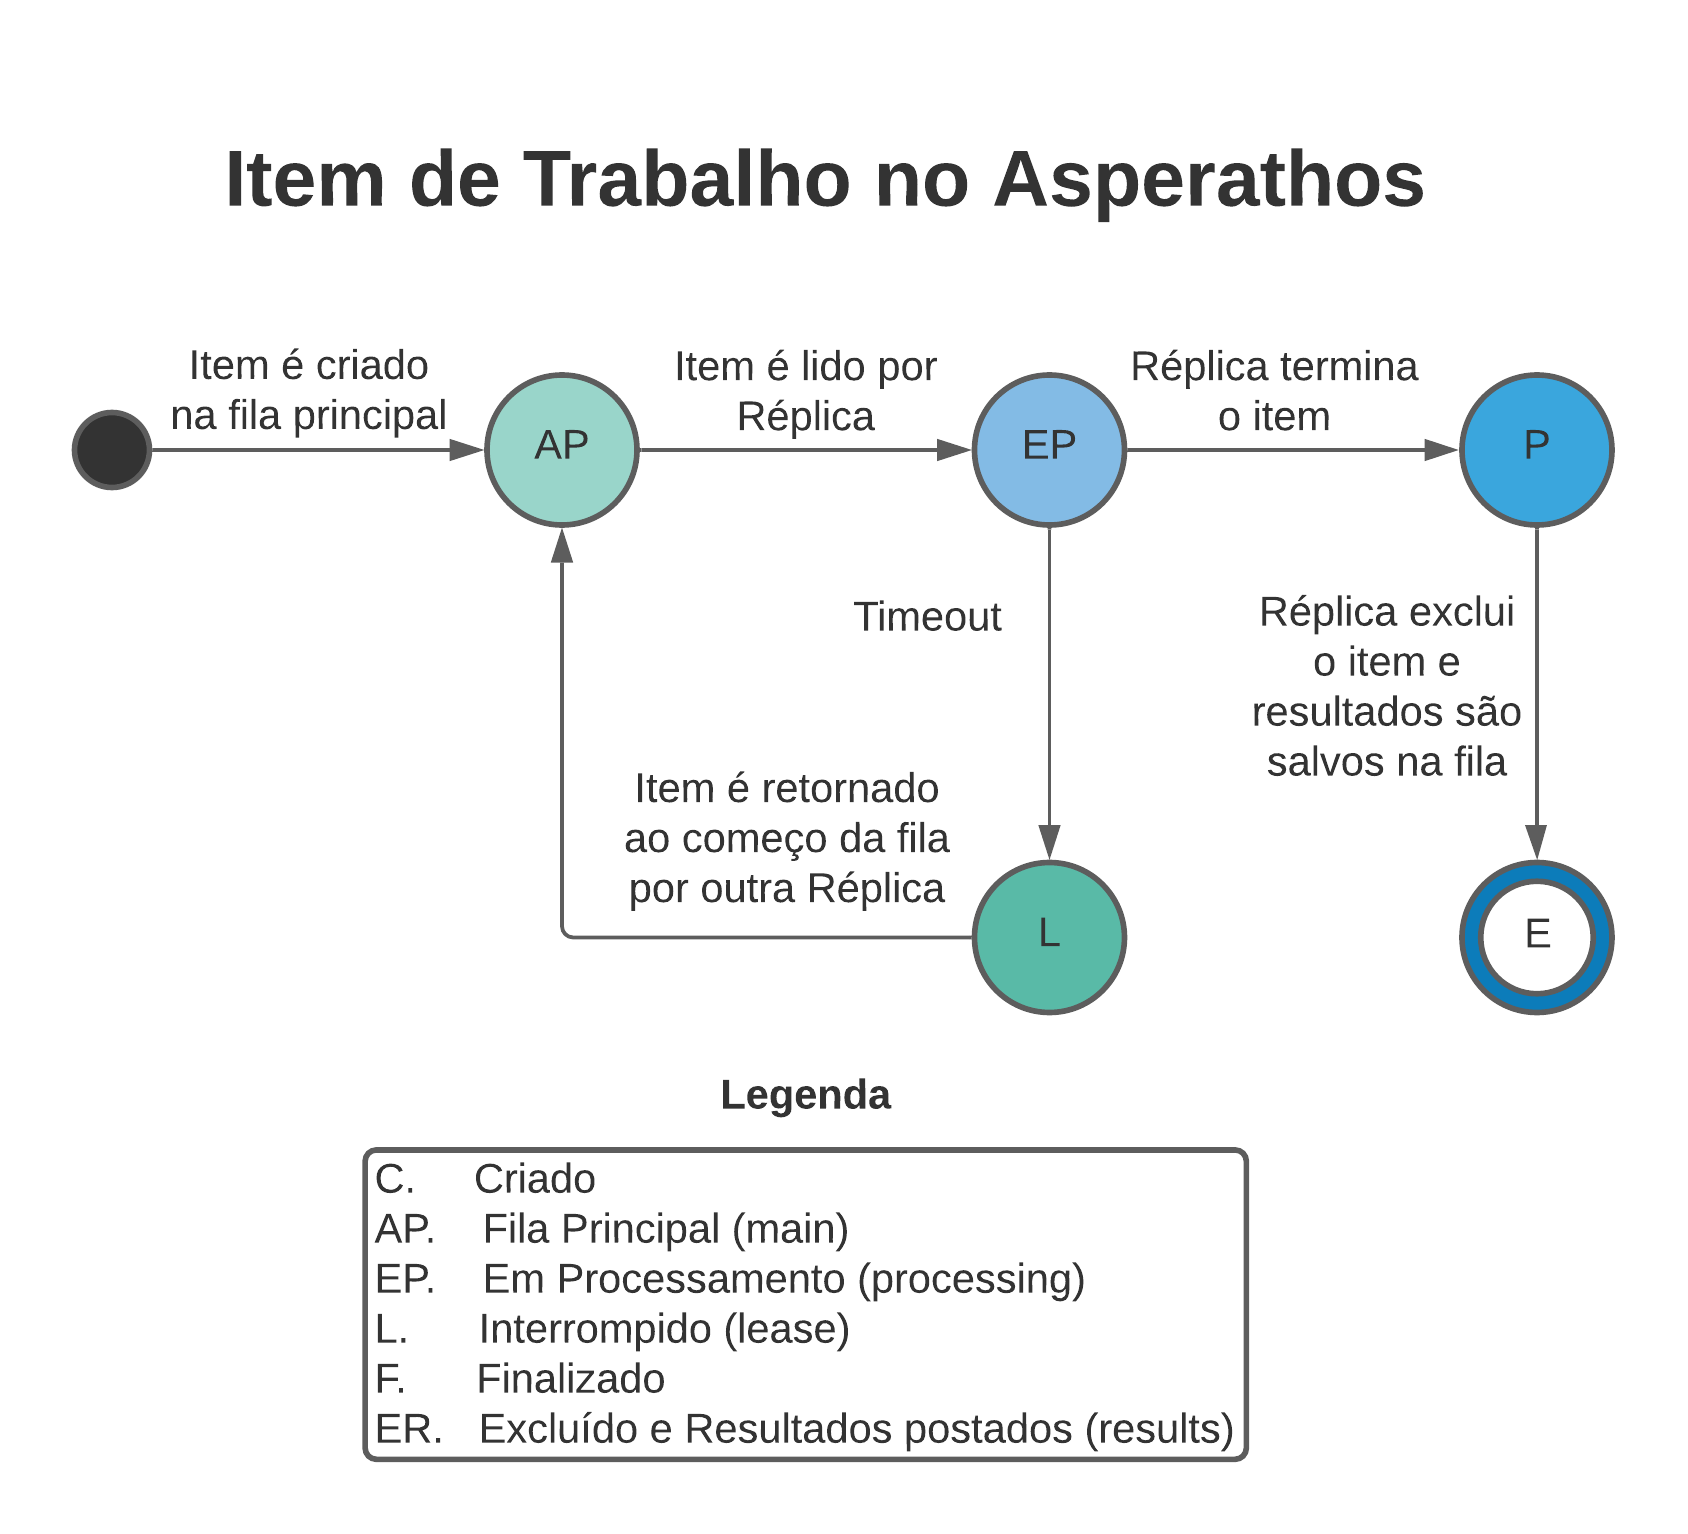
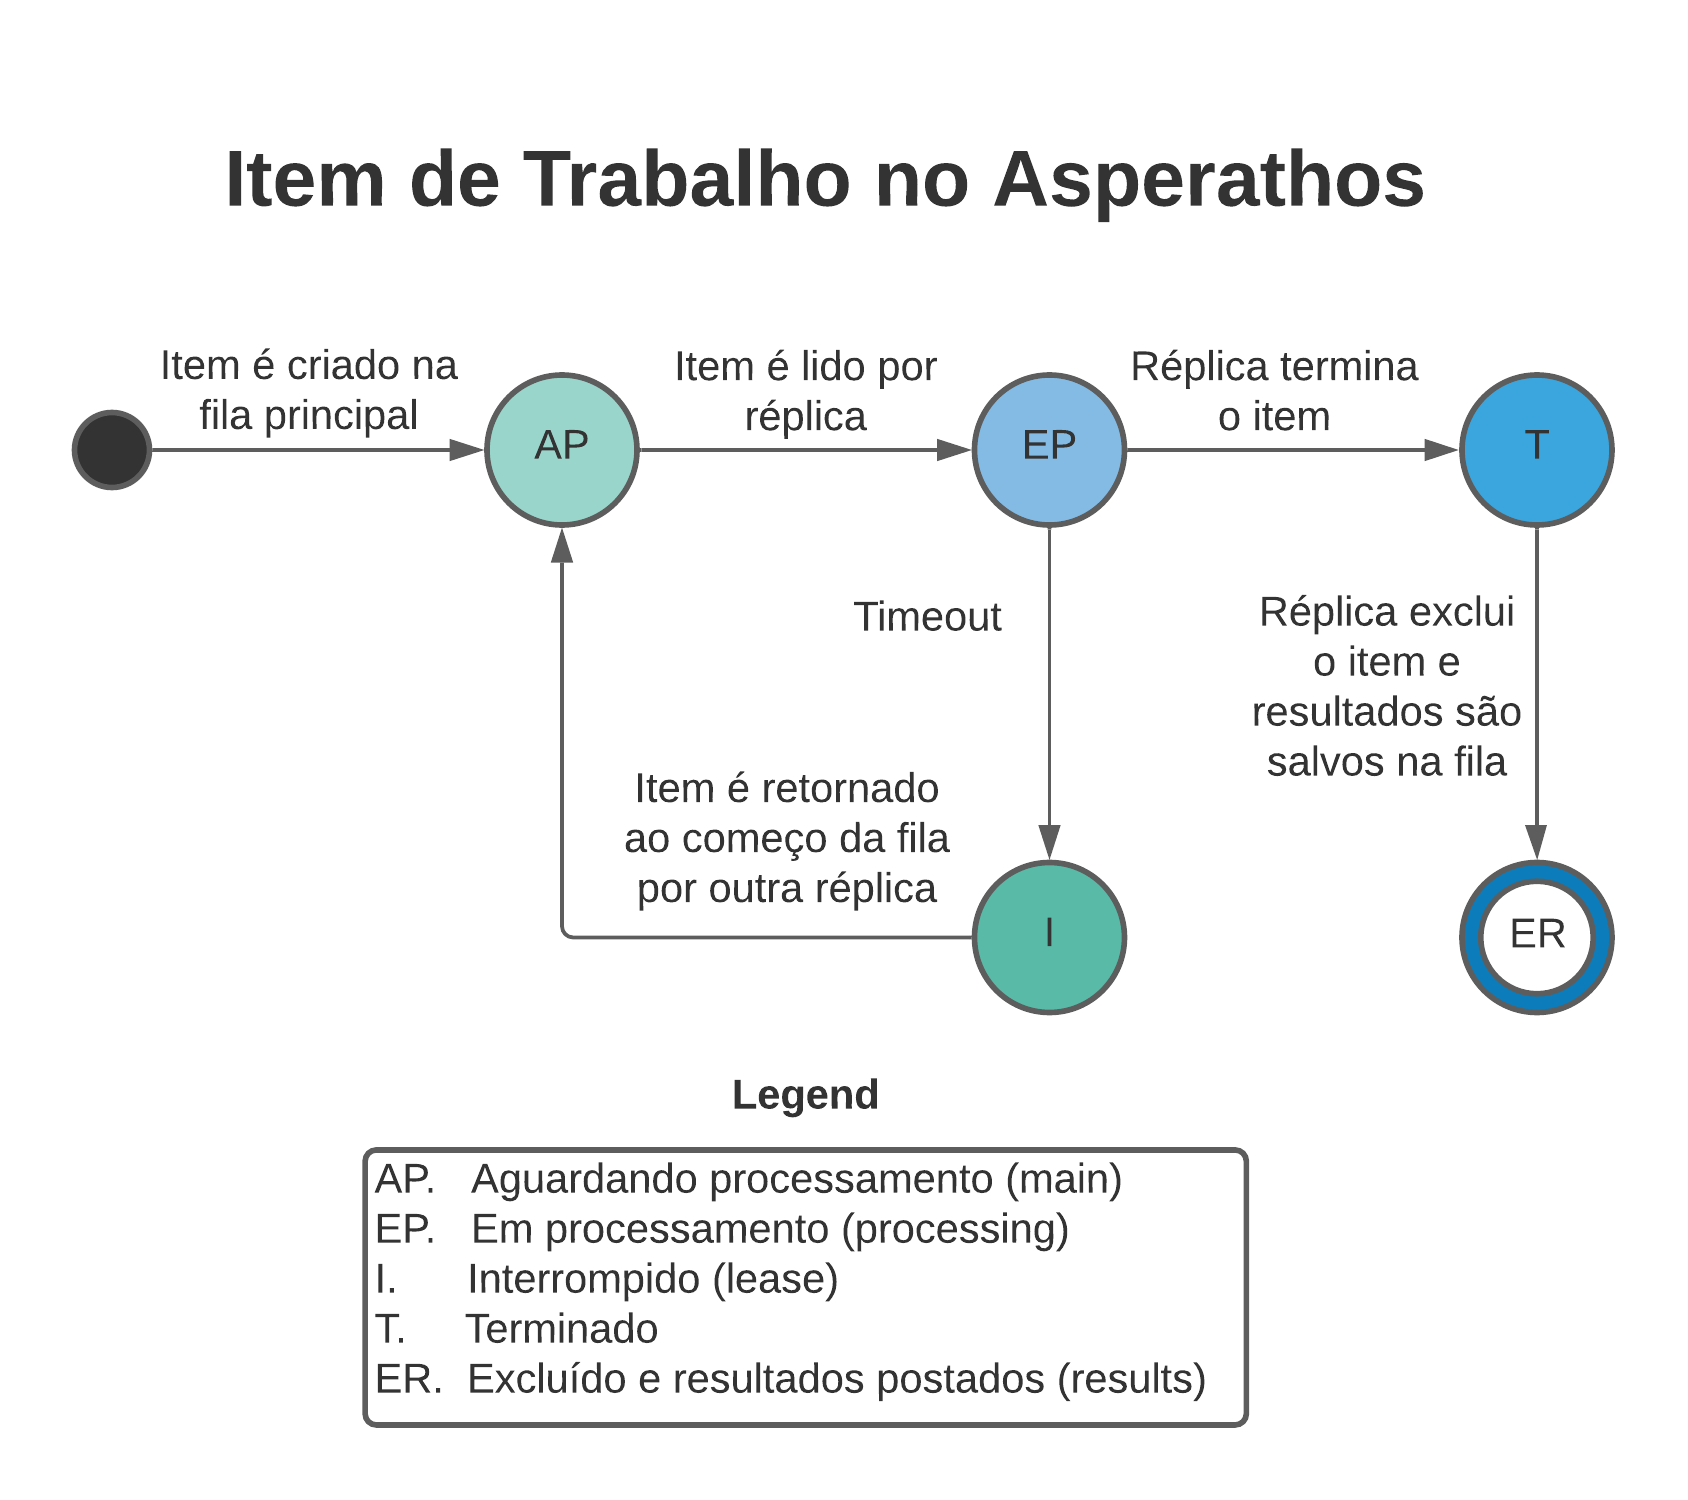
Adds WIP component section

diff --git a/content/posts/asperathos.md b/content/posts/asperathos.md
@@ -1,6 +1,6 @@
 +++
 title = "Documento Arquitetural do Asperathos"
-date = 2021-07-13
+date = 2021-08-13
 tags = []
 categories = []
 +++
@@ -94,6 +94,44 @@ Os endpoints do visualizer são estes abaixo:
 * `/visualizing/:id`, **GET** que retorna a URL do Dashboard.
 
 
+### Componentes
+
+Todos os containers do Asperathos seguem uma arquitetura de plugin. A maior implicação disso, é que não há detalhes muito minunciosos de implementação para cada um, visto que são feitos para comportar diversas possibilidades de plugin. Eles, entretanto, devem seguir responsabilidades bem definidas, como falamos na seção anterior, mas que separaremos aqui componente a componente de cada container.
+
+Cada container tem dois componentes em comum: a **API REST** (como discutimos) e o **gerente de plugins**. A API REST já foi explicada e não há mais detalhes do que isso, mas o gerente de plugins é o responsável por instalar as opcões de plugin e decidir qual usar de acordo com a configuração do Job. Abaixo, estão os componentes diferenciais de cada um.
+
+#### Manager
+
+O Manager coordena os outros containers e também o Job. Ele consegue fazer isso dividindo suas responsabilidades entre três componentes: o **executor de Job**, o **gerente** e o **componente de persistência**.
+
+O **executor de Job** é o responsável por se comunicar com a API da infraestrutura (e.g. Kubernetes) para poder criar e configurar as aplicações auxiliares e a aplicação do cliente no cluster, bem como inicializar a carga de trabalho na Fila de Mensagens para que o Job possa começar.
+
+#### Monitor
+
+Como vimos, o Monitor tem responsabilidade de coletar as métricas e publicá-las no BD. Isso é dividido de maneira simples entre três componentes: o **coletor**, o **processador** e o **publicador**. Cada um deles é um plugin que pode ser substituído.
+
+O **coletor** é responsável pela coleta. Não só pegar as métricas, como também decidir de onde elas vêm. Por padrão utilizamos apenas a Fila de Mensagens, mas outras fontes podem ser utilizadas. Por exemplo: uso de CPU/RAM dos nós do cluster, coletados através da API do Kubernetes.
+
+O **processador** utiliza as métricas para produzir novas ou refiná-las. Enquanto o coletor lê a quantidade de itens produzida, o processador é o responsável por utilizar isso e produzir a métrica de fluxo de itens por segundo. Ele pode também deduzir as distâncias de tempo entre cada item.
+
+O **publicador** utiliza as métricas refinadas do processador para publicá-las no Banco de Dados de Série Temporal. Essa função é simples, e só precisa ser reimplementada quando o Banco de Dados é diferente. Por padrão, é o InfluxDB.
+
+![fig1](componente_monitor_asperathos.png)
+
+#### Controller
+
+O Controller é responsável por decidir quando, como e com qual intensidade atuar no escalonamento das réplicas, baseado em métrias lidas no BD, e também aplicar a decisão. Ele divide essas tarefas em três componentes: o **controlador**, o **atuador** e o **coletor**.
+
+O **controlador** é o componente de inteligência, e é responsável por decidir baseado nas métricas. Esse é o plugin de maior impacto do container e talvez da aplicação, pois afeta diretamente o progresso do job.
+
+O **atuador** é responsável por se conectar com a interface da estrutura (i.e. API do Kubernetes) e aplicar as decisões do controlador. Essa função é simples, e só precisa ser reimplementada quando a Infraestrutura é diferente.
+
+O **coletor** é quem lê as métricas do Banco de Dados de Série Temporal. Essa função é simples, e só precisa ser reimplementada quando o Banco de Dados é diferente.
+
+#### Visualizer
+
+O Visualizer, sendo responsável por gerir o Dashboard Analítico, é bem separado da lógica normal. Ele não possui componentes bem definidos, tendo apenas um plugin, que é o responsável por tudo.
+
 ### Visão de Informação
 
 O Asperathos tem consigo diversas informações que trafegam. Desde as configurações iniciais em JSON, até as métricas lidas pelos componentes. O essencial de se entender para um usuário do sistema, entretanto, é sobre o processamento do Job.
@@ -109,3 +147,9 @@ Após se passar um tempo, determinado pelo cliente, com um item parado na fila *
 O diagrama de informação abaixo ilustra essa mudança de estado de um item conforme ele muda de fila.
 
 ![fig1](informacao_asperathos.png)
+
+# Contribuições Concretas
+
+Foi feito um PR contendo os diagramas realizados aqui. Como o repositório já possui documentação, a adição foi pouca para que os diagramas coubessem de maneira a agregar informação. Além disso, visto que a documentação foi produzida em Inglês no repositório, os diagramas tiveram de ser traduzidos.
+
+https://github.com/ufcg-lsd/asperathos/pull/11
